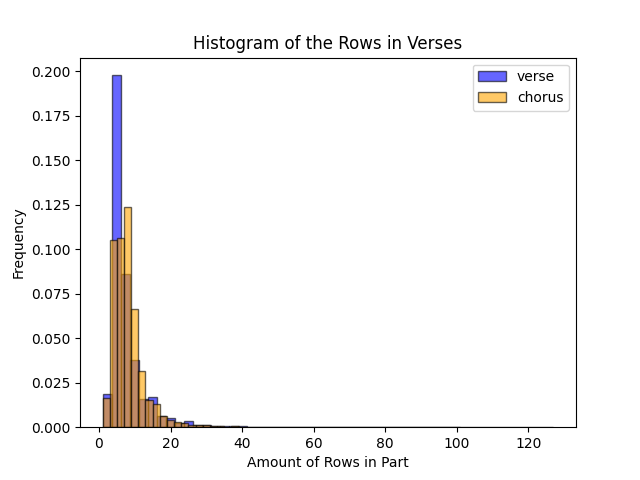
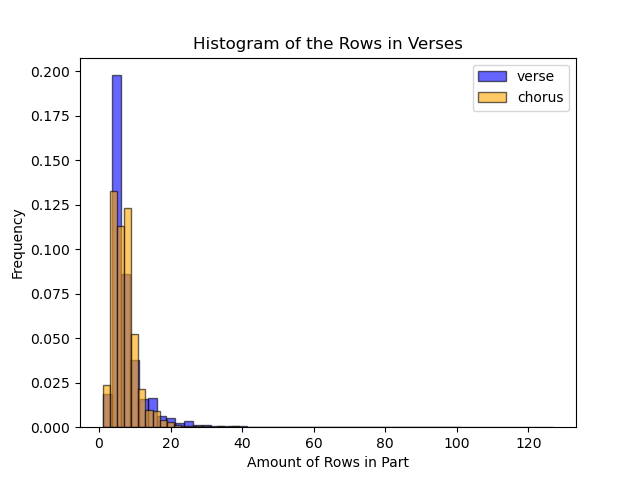
updated preprocessing abd added bigram and unigram repetitiveness

diff --git a/utils/preprocessing.py b/utils/preprocessing.py
@@ -1,3 +1,5 @@
+import random
+
 import pandas as pd
 import re
 
@@ -39,6 +41,7 @@ def parse_lyrics_sections(lyrics):
     current_section = None
     current_lines = []
     saw_chorus = False
+    chorus_added = False  # Track if we've already added a chorus
 
     for line in lines:
         match = section_header_pattern.match(line)
@@ -47,14 +50,22 @@ def parse_lyrics_sections(lyrics):
             if current_section and current_lines:
                 part_text = '\n'.join(current_lines).strip()
                 if part_text:
-                    result[part_text] = current_section
+                    # Only add the first chorus
+                    if current_section == 'chorus':
+                        if not chorus_added:
+                            result[part_text] = current_section
+                            chorus_added = True
+                            saw_chorus = True
+                    else:
+                        result[part_text] = current_section
                 current_lines = []
 
             # Normalize tag (remove spaces and dashes)
             tag = match.group(1).lower().replace(' ', '').replace('-', '')
             if tag in ['chorus', 'prechorus', 'postchorus']:
                 current_section = tag  # keep as-is
-                saw_chorus = True
+                if tag == 'chorus':
+                    saw_chorus = True  # We've seen a chorus, even if we don't add it
             elif 'verse' in tag:
                 current_section = 'verse'
             elif tag in ['intro', 'bridge', 'outro', 'refrain']:
@@ -68,14 +79,20 @@ def parse_lyrics_sections(lyrics):
     if current_section and current_lines:
         part_text = '\n'.join(current_lines).strip()
         if part_text:
-            result[part_text] = current_section
+            # Only add the first chorus
+            if current_section == 'chorus':
+                if not chorus_added:
+                    result[part_text] = current_section
+                    chorus_added = True
+            else:
+                result[part_text] = current_section
 
     return result if saw_chorus and result else None
 
-def get_parsed_data(number_of_songs=2000) -> dict:
+def get_parsed_data(number_of_songs = 2000) -> dict:
     """
     fetches parsed data from the database.
-    returns a dict of ficts,
+    returns a dict of dicts,
     where the keys are the ids of the songs, and the values are dicts, one per song,
     whose keys are the lyrics of a part of the song, and its label (verse, chorus, bridge, etc.)
     """
@@ -108,6 +125,7 @@ def prepare_data_for_training(parsed_data):
 
     data = []
     for song_id, sections in parsed_data.items():
+        song_data = []
         for i, (part_text, section) in enumerate(sections.items()):
             if section not in LABELS.keys():
                 continue
@@ -120,8 +138,11 @@ def prepare_data_for_training(parsed_data):
             section_context = " ".join(section_context)
             # build the data
             format_text = build_format_text(part_text, section_context)
-            data.append((format_text, LABELS[section]))
-    return pd.DataFrame(data, columns=["text", "label"])
+            song_data.append((song_id, format_text, LABELS[section]))
+        if len(song_data)>1:
+            random.shuffle(song_data)
+            data.extend(song_data)
+    return pd.DataFrame(data, columns=["song_id", "text", "label"])
 
 
 def get_data():
@@ -131,6 +152,4 @@ def get_data():
     parsed_data = get_parsed_data()
     data = prepare_data_for_training(parsed_data)
     print("data parsed")
-    # save the data (a pandas df) to a parquet file
-    data.to_parquet("./data/full_data.parquet", index=False)
     return data

diff --git a/exploration/data_exploration.py b/exploration/data_exploration.py
@@ -7,6 +7,8 @@ import torch
 import pandas as pd
 from datasets import Dataset
 from utils.preprocessing import get_parsed_data, get_data
+import os
+os.environ["KMP_DUPLICATE_LIB_OK"] = "TRUE"
 
 # TODO: check about the weird token in the first song in get_data
 data = get_parsed_data(number_of_songs=20000)
@@ -34,7 +36,7 @@ def number_of_words_plot(data):
     plt.ylabel("Frequency")
     plt.title("Histogram of verses")
     plt.legend()
-    plt.savefig("../plots/word_count_hist.png")
+    plt.savefig("../../plots/word_count_hist.png")
     # plt.show()
 
 
@@ -60,6 +62,7 @@ def number_of_row_plot(data):
     plt.ylabel("Frequency")
     plt.title("Histogram of the Rows in Verses")
     plt.legend()
+    os.makedirs("../plots", exist_ok=True)
     plt.savefig("../plots/rows_count_hist.png")
     # plt.show()
 
@@ -92,12 +95,79 @@ def run_precision_and_recall():
     precision, recall = calculate_precision_and_recall(predictions, true_labels)
     print(f"Precision: {precision}, Recall: {recall}")
 
+
+def unigram_repetition_score(text):
+    # Lowercase and split text into words (basic cleaning)
+    words = re.findall(r'\b\w+\b', text.lower())
+
+    if not words:
+        return 0.0  # Avoid division by zero
+
+    unique_words = set(words)
+    total_words = len(words)
+    repetitiveness = 1 - len(unique_words) / total_words
+
+    return repetitiveness
+
+
+def bigram_repetition_score(text):
+    # Lowercase and split text into words
+    words = re.findall(r'\b\w+\b', text.lower())
+
+    if len(words) < 2:
+        return 0.0  # No bigrams possible
+
+    # Create bigrams
+    bigrams = [(words[i], words[i + 1]) for i in range(len(words) - 1)]
+
+    total_bigrams = len(bigrams)
+    unique_bigrams = len(set(bigrams))
+
+    repetitiveness = 1 - unique_bigrams / total_bigrams
+
+    return repetitiveness
+
+def calculate_repetition_score(data):
+    chorus_unigram, verse_unigram, chorus_bigram, verse_bigram = [], [], [], []
+
+    for v in data.values():
+        for lyrics, song_part in v.items():
+            if song_part == 'chorus':
+                chorus_unigram.append(unigram_repetition_score(lyrics))
+                chorus_bigram.append(bigram_repetition_score(lyrics))
+            if song_part == 'verse':
+                verse_unigram.append(unigram_repetition_score(lyrics))
+                verse_bigram.append(bigram_repetition_score(lyrics))
+
+    # Create a figure with two subplots
+    fig, axes = plt.subplots(1, 2, figsize=(14, 5))
+
+    # Unigram repetition plot
+    axes[0].hist(chorus_unigram, bins=20, alpha=0.7, label='Chorus', color='skyblue', density=True)
+    axes[0].hist(verse_unigram, bins=20, alpha=0.7, label='Verse', color='lightcoral', density=True)
+    axes[0].set_title('Unigram Repetition (Normalized)')
+    axes[0].set_xlabel('Repetition Score')
+    axes[0].set_ylabel('Density')
+    axes[0].legend()
+
+    # Bigram repetition plot
+    axes[1].hist(chorus_bigram, bins=20, alpha=0.7, label='Chorus', color='skyblue', density=True)
+    axes[1].hist(verse_bigram, bins=20, alpha=0.7, label='Verse', color='lightcoral', density=True)
+    axes[1].set_title('Bigram Repetition (Normalized)')
+    axes[1].set_xlabel('Repetition Score')
+    axes[1].set_ylabel('Density')
+    axes[1].legend()
+
+    plt.tight_layout()
+    plt.show()
+
+
 if __name__ == '__main__':
     # 8. precision and recall (Tomer)
-    run_precision_and_recall()
+    # run_precision_and_recall()
     # 1. number_of_words_plot(data)
-    number_of_row_plot(data)
-
+    # number_of_row_plot(data)
+    calculate_repetition_score(data)
 # 2. nuber of tokens (Shaked)
 
 # 3. number of sentences/rows (Shaked)
